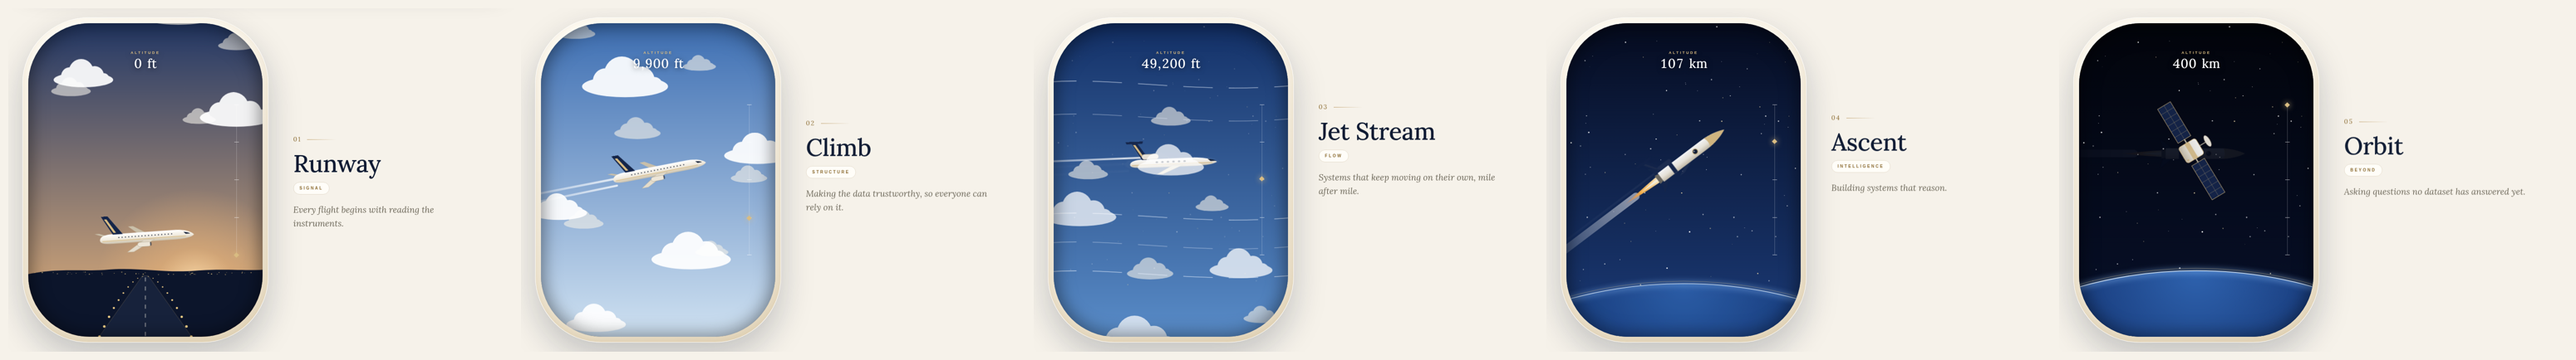
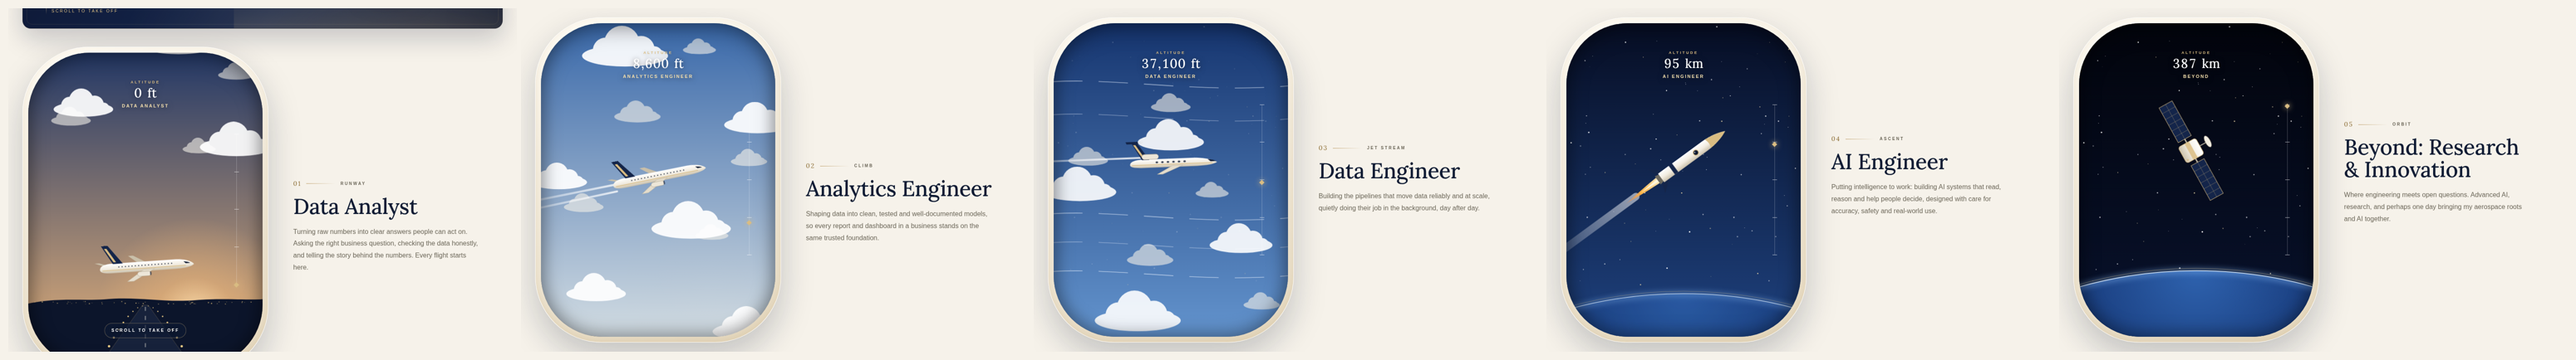
Add files via upload

diff --git a/index.html b/index.html
@@ -274,6 +274,44 @@ h1,h2,.brand-word,.thumb-title,.page-heading h2,.section-title h2,.section-title
 @media(max-width:720px){.alt-teaser{grid-template-columns:1fr}.alt-teaser-art{min-height:170px}.alt-teaser-copy{padding:26px 24px}.alt-teaser-copy h2{font-size:28px}}
 @media(max-width:460px){.alt-hero h1{font-size:44px}.alt-sub{font-size:19px}.alt-window{height:42vh;border-radius:80px}.alt-scene{border-radius:72px}}
 @media(prefers-reduced-motion:reduce){.alt-phase{transform:none}}
+
+/* ---- v2: direct roles + astronaut host ---- */
+.alt-hero{display:grid;grid-template-columns:minmax(0,1.15fr) minmax(0,.85fr);gap:30px;align-items:center;padding:64px 56px 70px}
+.alt-hero-art{opacity:.35}
+.alt-hero .alt-cue{position:absolute;left:56px;bottom:26px;margin:0}
+.alt-howto{list-style:none;padding:0;margin:26px 0 0;display:flex;flex-wrap:wrap;gap:10px}
+.alt-howto li{display:flex;align-items:center;gap:9px;font-size:12px;color:#E9DDC2;border:1px solid #D9BC8247;background:#0F1B3399;border-radius:999px;padding:7px 14px 7px 7px}
+.alt-howto b{width:22px;height:22px;border-radius:50%;display:grid;place-items:center;background:var(--gold);color:#0F1B33;font-size:11px}
+.alt-host{position:relative;display:flex;flex-direction:column;align-items:center}
+.astro{width:min(260px,100%);height:auto;filter:drop-shadow(0 18px 30px #0008)}
+.astro-float{animation:astro-float 6s ease-in-out infinite}
+@keyframes astro-float{0%,100%{transform:translateY(0) rotate(-2deg)}50%{transform:translateY(-10px) rotate(2deg)}}
+.astro-wave{transform-origin:170px 124px;animation:astro-wave 2.2s ease-in-out infinite}
+@keyframes astro-wave{0%,100%{transform:rotate(0)}50%{transform:rotate(-14deg)}}
+.alt-bubble{position:relative;max-width:300px;background:var(--ivory);color:#0F1B33;border-radius:20px 20px 20px 6px;padding:16px 20px;font-family:var(--serif);font-size:17px;line-height:1.45;box-shadow:0 18px 40px #0007,inset 0 0 0 1px #D9BC8280;margin-bottom:6px;animation:bubble-in .8s .3s both cubic-bezier(.2,.8,.2,1)}
+.alt-bubble strong{display:block;font-weight:600;color:#8A6A2F;margin-bottom:2px}
+.alt-bubble::after{content:"";position:absolute;left:36px;bottom:-12px;width:22px;height:22px;background:var(--ivory);transform:rotate(45deg);border-radius:0 0 6px 0;box-shadow:inset -1px -1px 0 #D9BC8280}
+@keyframes bubble-in{from{opacity:0;transform:translateY(10px) scale(.96)}to{opacity:1;transform:none}}
+.alt-hud em{display:block;font-style:normal;font-size:11px;letter-spacing:2.6px;text-transform:uppercase;color:#F3DFAE;margin-top:4px;font-weight:700}
+.alt-start{position:absolute;left:50%;bottom:9%;transform:translateX(-50%);z-index:2;display:flex;flex-direction:column;align-items:center;gap:8px;color:#fff;font-size:10px;letter-spacing:3px;text-transform:uppercase;font-weight:700;text-shadow:0 2px 10px #0009;pointer-events:none;background:#0F1B3399;border:1px solid #D9BC8266;border-radius:999px;padding:9px 16px 9px}
+.alt-start i{display:none}
+.alt-num span{font-family:var(--sans);font-size:10px;letter-spacing:3px;font-weight:700;text-transform:uppercase;color:var(--muted);order:3}
+.alt-num{gap:12px}
+.alt-num::after{order:2}
+.alt-name{font-size:clamp(34px,3.6vw,52px)}
+.alt-line{font-family:var(--sans);font-style:normal;font-size:16px;line-height:1.8}
+@media(max-width:900px){
+ .alt-hero{grid-template-columns:1fr;padding:40px 24px 70px;gap:22px}
+ .alt-hero-art{display:none}
+ .alt-host{flex-direction:row;align-items:flex-end;gap:6px}
+ .astro{width:130px;flex-shrink:0}
+ .alt-bubble{font-size:15px;max-width:none;flex:1;border-radius:20px 20px 6px 20px}
+ .alt-bubble::after{left:auto;right:-8px;bottom:14px}
+ .alt-hero .alt-cue{left:24px}
+ .alt-hud em{font-size:9px}
+ .alt-line{font-size:15px}
+}
+@media(prefers-reduced-motion:reduce){.alt-bubble{animation:none}}
 </style>
 </head>
 <body>
@@ -425,11 +463,11 @@ function searchPage(){const term=query.toLocaleLowerCase().trim();const projectM
    ========================================================================== */
 ICONS.plane='<path d="M17.8 19.2 16 11l3.5-3.5C21 6 21.5 4 21 3c-1-.5-3 0-4.5 1.5L13 8 4.8 6.2c-.5-.1-.9.1-1.1.5l-.3.5c-.2.5-.1 1 .3 1.3L9 12l-2 3H4l-1 1 3 2 2 3 1-1v-3l3-2 3.5 5.3c.3.4.8.5 1.3.3l.5-.2c.4-.3.6-.7.5-1.2z"/>';
 const ALT_PHASES=[
- ['01','Runway','Signal','Every flight begins with reading the instruments.'],
- ['02','Climb','Structure','Making the data trustworthy, so everyone can rely on it.'],
- ['03','Jet Stream','Flow','Systems that keep moving on their own, mile after mile.'],
- ['04','Ascent','Intelligence','Building systems that reason.'],
- ['05','Orbit','Beyond','Asking questions no dataset has answered yet.']
+ ['01','Runway','Data Analyst','Turning raw numbers into clear answers people can act on. Asking the right business question, checking the data honestly, and telling the story behind the numbers. Every flight starts here.'],
+ ['02','Climb','Analytics Engineer','Shaping data into clean, tested and well-documented models, so every report and dashboard in a business stands on the same trusted foundation.'],
+ ['03','Jet Stream','Data Engineer','Building the pipelines that move data reliably and at scale, quietly doing their job in the background, day after day.'],
+ ['04','Ascent','AI Engineer','Putting intelligence to work: building AI systems that read, reason and help people decide, designed with care for accuracy, safety and real-world use.'],
+ ['05','Orbit','Beyond: Research &amp; Innovation','Where engineering meets open questions. Advanced AI, research, and perhaps one day bringing my aerospace roots and AI together.']
 ];
 const PLANE_TOP='M14,0C14,-1.6 12,-2.2 9,-2.2L3,-2.2L-4,-11L-7.5,-11L-3.5,-2.2L-9,-2.2L-12,-6L-14.5,-6L-12.5,0L-14.5,6L-12,6L-9,2.2L-3.5,2.2L-7.5,11L-4,11L3,2.2L9,2.2C12,2.2 14,1.6 14,0Z';
 const altReduce=matchMedia('(prefers-reduced-motion: reduce)');
@@ -507,22 +545,47 @@ function altSceneSVG(){
  '<g id="alt-clouds" fill="#ffffff">'+near+'</g></svg>'
 }
 
+function astronautSVG(){
+ return '<svg class="astro" viewBox="0 0 240 260" aria-hidden="true" focusable="false"><defs>'+
+ '<linearGradient id="asSuit" x1="0" y1="0" x2="1" y2="1"><stop offset="0" stop-color="#FFFFFF"/><stop offset=".6" stop-color="#EEE7DA"/><stop offset="1" stop-color="#C9BFA9"/></linearGradient>'+
+ '<linearGradient id="asVisor" x1="0" y1="0" x2="1" y2="1"><stop offset="0" stop-color="#2A4A86"/><stop offset=".55" stop-color="#0F1B33"/><stop offset="1" stop-color="#B8955A"/></linearGradient></defs>'+
+ '<ellipse cx="120" cy="132" rx="104" ry="104" fill="none" stroke="#D9BC82" stroke-opacity=".22"/><ellipse cx="120" cy="132" rx="78" ry="78" fill="none" stroke="#D9BC82" stroke-opacity=".12"/>'+
+ '<g class="astro-float">'+
+ '<rect x="70" y="100" width="100" height="94" rx="20" fill="#B9AE97"/>'+
+ '<rect x="80" y="182" width="30" height="50" rx="13" fill="url(#asSuit)"/><rect x="130" y="182" width="30" height="50" rx="13" fill="url(#asSuit)"/>'+
+ '<rect x="78" y="218" width="34" height="18" rx="8" fill="#14254A"/><rect x="128" y="218" width="34" height="18" rx="8" fill="#14254A"/>'+
+ '<rect x="76" y="110" width="88" height="86" rx="32" fill="url(#asSuit)" stroke="#D9BC82" stroke-opacity=".5"/>'+
+ '<rect x="100" y="138" width="40" height="24" rx="6" fill="#14254A"/><circle cx="110" cy="150" r="3.2" fill="#D9BC82"/><circle cx="121" cy="150" r="3.2" fill="#8EC2FF"/><circle cx="131" cy="150" r="3.2" fill="#E9DDC2"/>'+
+ '<path d="M92,170H148" stroke="#D9BC82" stroke-width="2"/>'+
+ '<g transform="rotate(18 82 124)"><rect x="56" y="118" width="26" height="58" rx="13" fill="url(#asSuit)"/><circle cx="69" cy="178" r="11" fill="#14254A"/></g>'+
+ '<g class="astro-wave"><rect x="158" y="70" width="26" height="60" rx="13" fill="url(#asSuit)" transform="rotate(-28 158 124)"/><circle cx="196" cy="66" r="11.5" fill="#14254A"/></g>'+
+ '<circle cx="120" cy="74" r="48" fill="url(#asSuit)" stroke="#D9BC82" stroke-width="2"/>'+
+ '<rect x="83" y="52" width="74" height="50" rx="24" fill="url(#asVisor)"/>'+
+ '<path d="M92,64C98,56 110,54 120,55" stroke="#fff" stroke-opacity=".6" stroke-width="4" stroke-linecap="round" fill="none"/>'+
+ '<circle cx="142" cy="88" r="2" fill="#F3DFAE"/><circle cx="134" cy="94" r="1.2" fill="#fff" opacity=".7"/>'+
+ '<rect x="164" y="64" width="9" height="20" rx="4" fill="#D9BC82"/>'+
+ '</g></svg>'
+}
+
 function altitudePage(){
  return '<div class="alt-page"><header class="alt-hero"><div class="alt-hero-art" aria-hidden="true">'+flightArt('ah',{par:'xMaxYMid slice',stars:30,seed:5})+'</div>'+
- '<p class="eyebrow">A note on direction</p><h1>Cruising <em>Altitude</em></h1><p class="alt-sub">Where this is heading.</p>'+
- '<p class="alt-intro">Every good career keeps a flight plan. This one begins on the ground, with data, and keeps climbing.</p>'+
+ '<div class="alt-hero-copy"><p class="eyebrow">My career flight path</p><h1>Cruising <em>Altitude</em></h1><p class="alt-sub">From Data Analyst to AI Engineer, and beyond.</p>'+
+ '<p class="alt-intro">This is a short, scroll-driven story of where my career is heading. Each altitude is one stage of the journey, from the foundation I work in today to the horizon I am building towards.</p>'+
+ '<ol class="alt-howto"><li><b>1</b>Scroll down slowly</li><li><b>2</b>Watch the flight climb</li><li><b>3</b>Read each stage as you pass it</li></ol></div>'+
+ '<div class="alt-host"><div class="alt-bubble" role="note"><strong>Hi, I’m Rafsan.</strong> Want to know where I’m heading? Scroll down and enjoy the short flight.</div>'+astronautSVG()+'</div>'+
  '<span class="alt-cue"><i></i>SCROLL TO TAKE OFF</span></header>'+
  '<div class="alt-flight" id="alt-flight"><div class="alt-window"><div class="alt-scene">'+altSceneSVG()+
- '<div class="alt-hud" aria-hidden="true"><span>ALTITUDE</span><strong id="alt-readout">0 ft</strong></div>'+
+ '<div class="alt-hud" aria-hidden="true"><span>ALTITUDE</span><strong id="alt-readout">0 ft</strong><em id="alt-role">Data Analyst</em></div>'+
+ '<div class="alt-start" id="alt-start" aria-hidden="true">Scroll to take off<i></i></div>'+
  '<div class="alt-tape" aria-hidden="true"><b></b><b></b><b></b><b></b><b></b><span class="mark" id="alt-mark"></span></div></div></div>'+
- '<ol class="alt-phases">'+ALT_PHASES.map((ph,i)=>'<li class="alt-phase'+(i?'':' is-active')+'"><div class="alt-card"><p class="alt-num">'+ph[0]+'</p><h2 class="alt-name">'+ph[1]+'</h2><span class="alt-tag">'+ph[2]+'</span><p class="alt-line">'+ph[3]+'</p></div></li>').join('')+'</ol></div>'+
+ '<ol class="alt-phases">'+ALT_PHASES.map((ph,i)=>'<li class="alt-phase'+(i?'':' is-active')+'"><div class="alt-card"><p class="alt-num">'+ph[0]+'<span>'+ph[1]+'</span></p><h2 class="alt-name">'+ph[2]+'</h2><p class="alt-line">'+ph[3]+'</p></div></li>').join('')+'</ol></div>'+
  '<section class="alt-close"><div class="alt-rule" aria-hidden="true"><i></i></div><blockquote>Trained to build things that fly.<br><em>Now building systems that think.</em></blockquote><cite>Ahmed Al Rafsan · Aircraft Design &amp; Engineering · Data Analytics</cite>'+
  '<div class="alt-actions"><a class="btn primary" href="#projects">'+icon('grid')+'See the projects</a><a class="btn outline" href="#contact">'+icon('mail')+'Get in touch</a></div></section></div>'
 }
 
 function altTeaser(){
- return '<section class="content-section"><a class="alt-teaser" href="#altitude" aria-label="Cruising Altitude: where this is heading"><div class="alt-teaser-art" aria-hidden="true">'+flightArt('at',{sky:true,seed:3,stars:34})+'</div>'+
- '<div class="alt-teaser-copy"><span class="eyebrow">Cruising Altitude</span><h2>Where this is heading.</h2><p>A short flight through the direction behind the work.</p><span class="text-link">Take the flight '+icon('arrow')+'</span></div></a></section>'
+ return '<section class="content-section"><a class="alt-teaser" href="#altitude" aria-label="Cruising Altitude: where my career is heading"><div class="alt-teaser-art" aria-hidden="true">'+flightArt('at',{sky:true,seed:3,stars:34})+'</div>'+
+ '<div class="alt-teaser-copy"><span class="eyebrow">Cruising Altitude · My career flight path</span><h2>Where my career is heading.</h2><p>Data Analyst → Analytics Engineer → Data Engineer → AI Engineer → and beyond. A one-minute scroll.</p><span class="text-link">Take the flight '+icon('arrow')+'</span></div></a></section>'
 }
 
 /* ---------- scene engine ---------- */
@@ -560,6 +623,8 @@ function altitudeFrame(){
  const idx=Math.round(p*(items.length-1));
  if(altReduce.matches)p=idx/(items.length-1);
  items.forEach((li,i)=>li.classList.toggle('is-active',i===idx));
+ const role=root.querySelector('#alt-role');if(role)role.innerHTML=ALT_PHASES[idx][2].replace(/:.*$/,'');
+ const st=root.querySelector('#alt-start');if(st)st.style.opacity=altClamp(1-p/.06).toFixed(2);
  altDraw(root,p);
 }
 function readProgress(){
